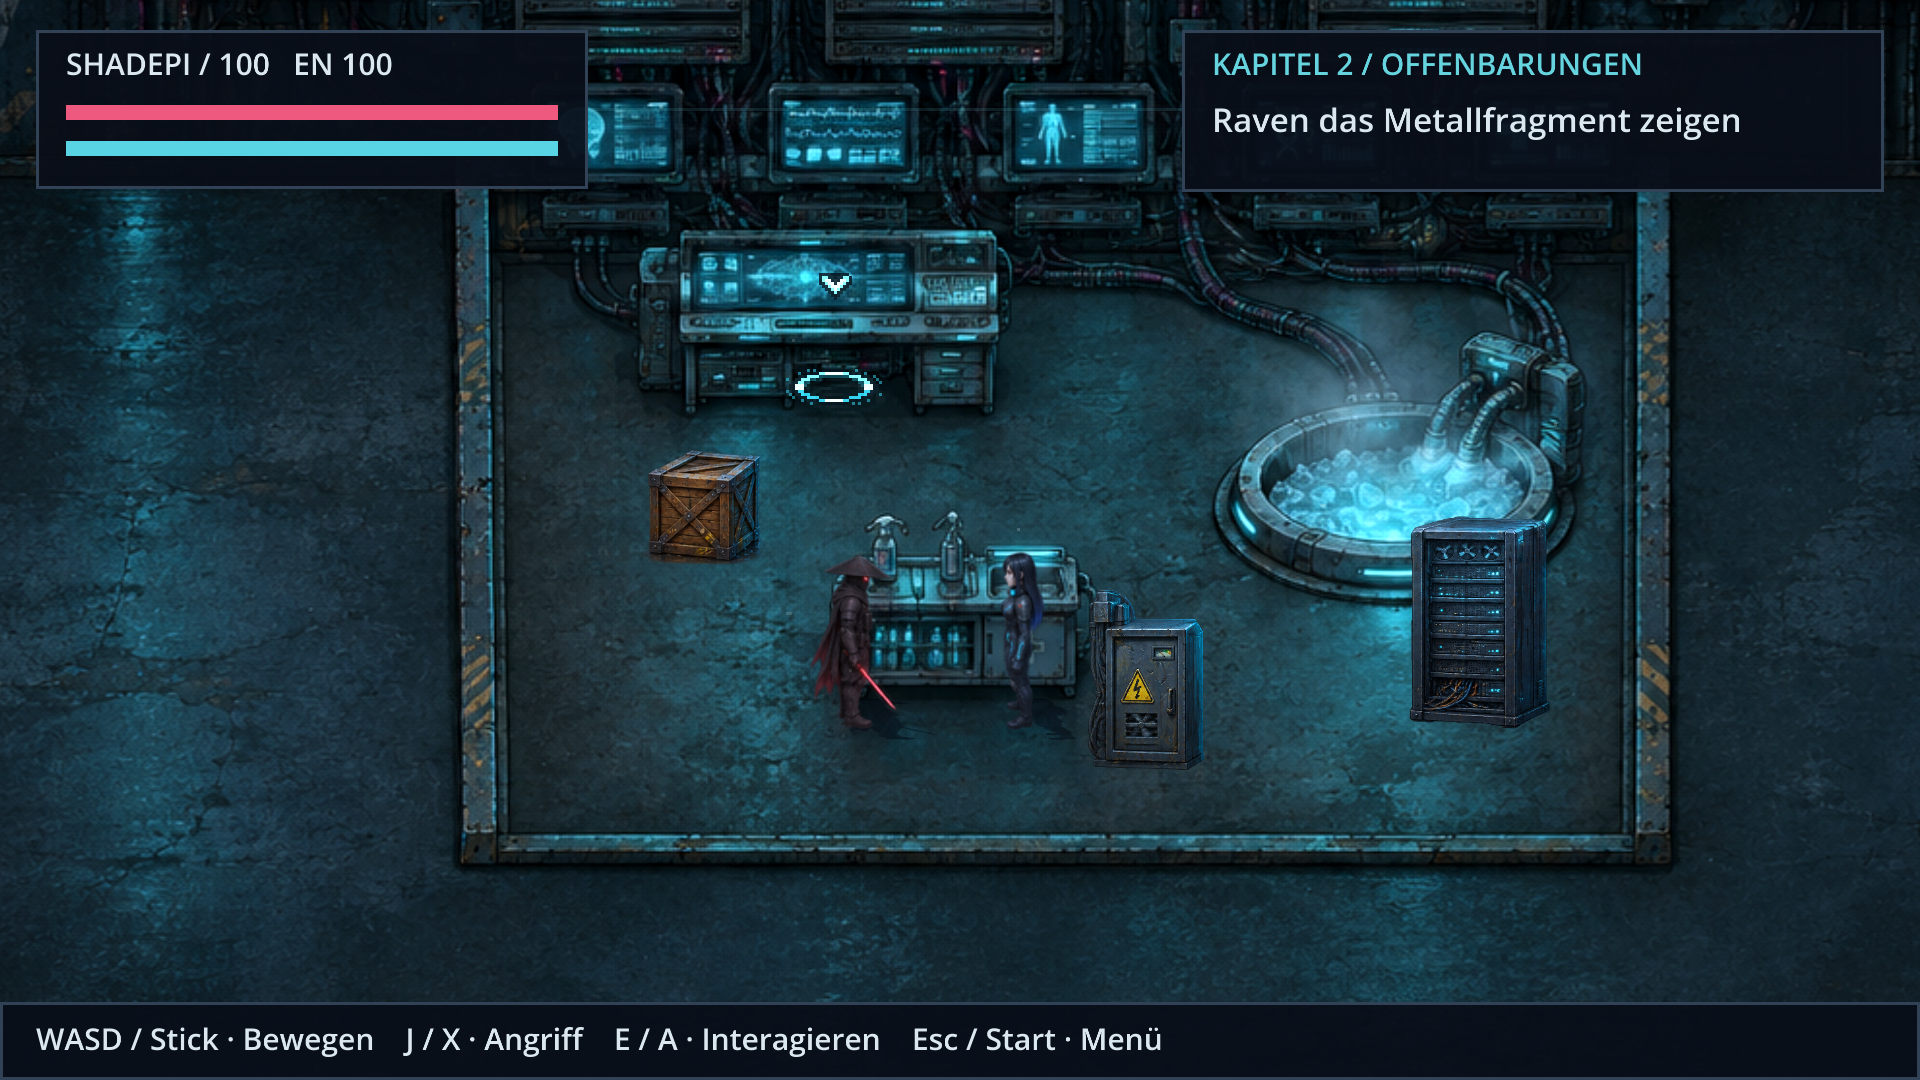
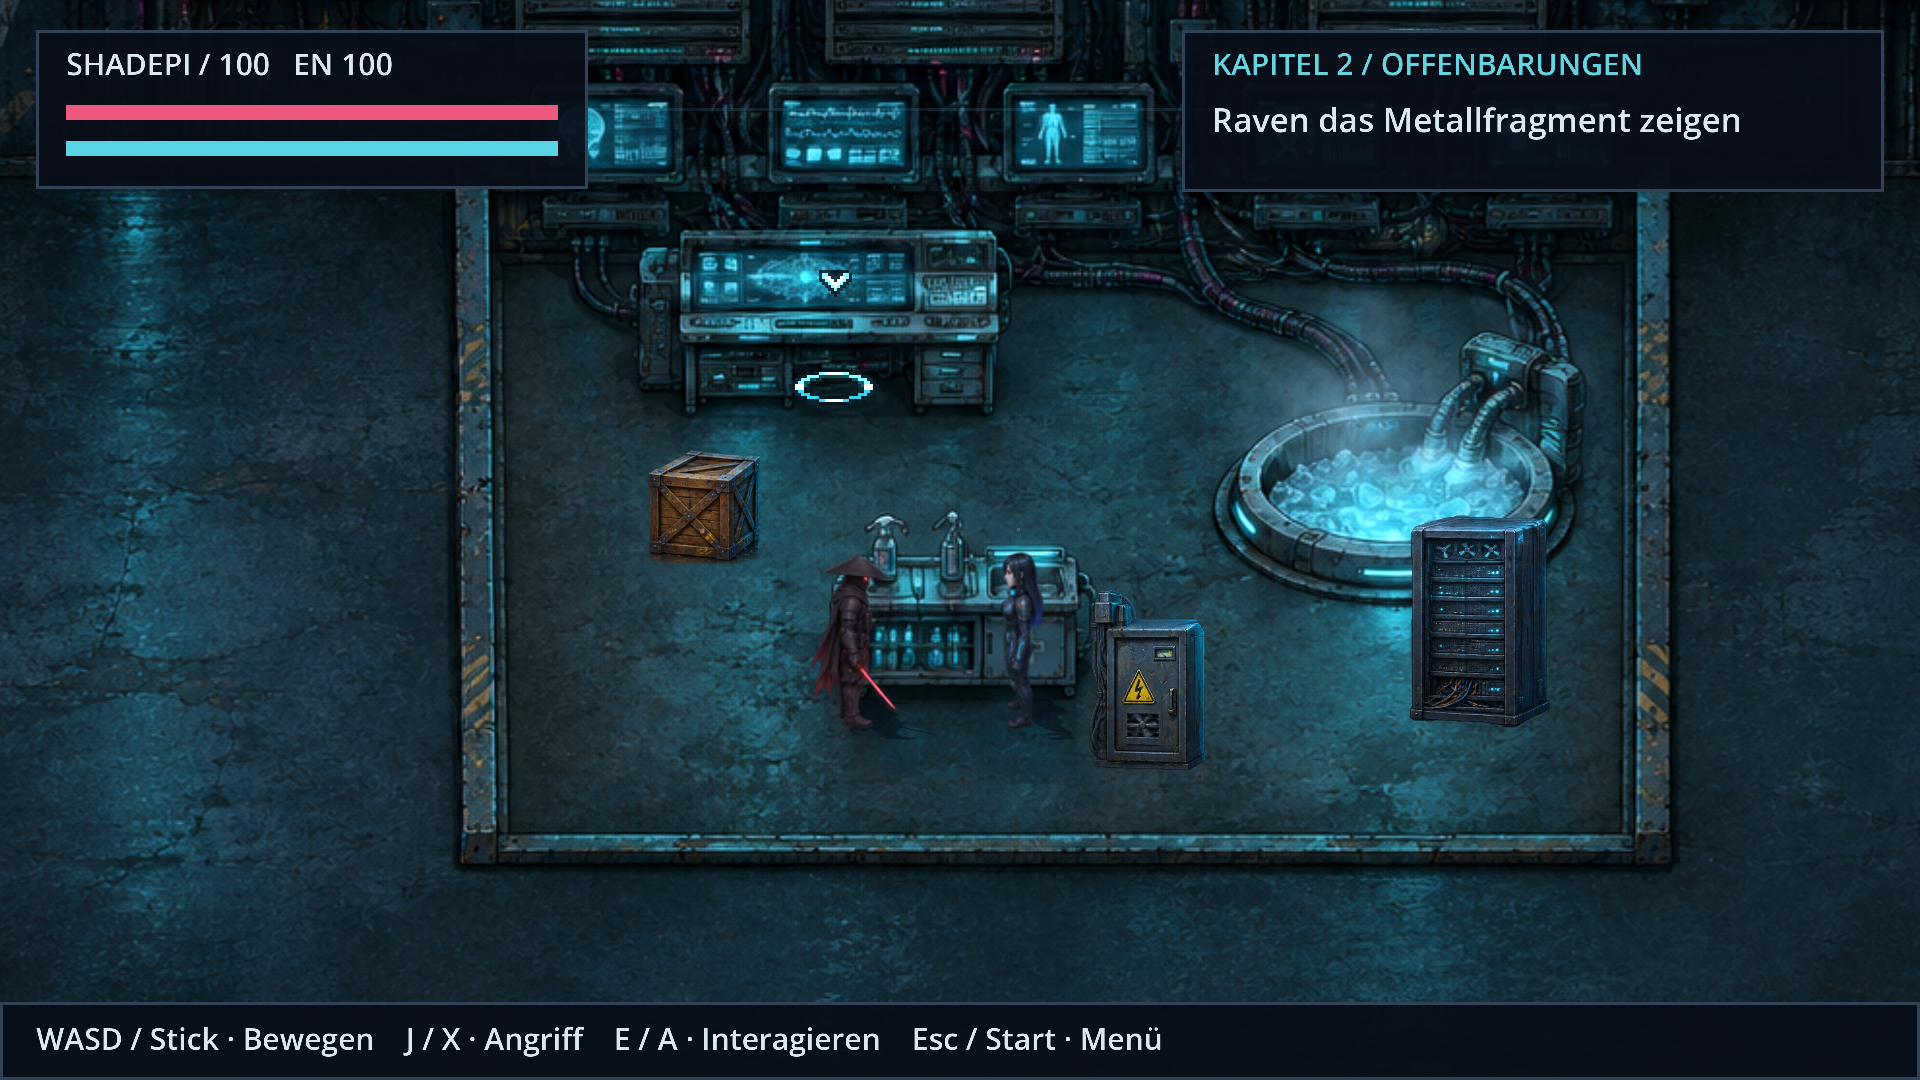
v0.51.0 CodexAI: Pixelraster erhalten und native 4K-/Exportprüfung abschließen

diff --git a/docs/arbeiten/hq-anzeige-v051.md b/docs/arbeiten/hq-anzeige-v051.md
@@ -5,7 +5,7 @@
 ## Auftrag und Ausgangslage
 
 - **Nutzerziel:** 1920×1080 nativ ermöglichen, einen HQ-Anzeigemodus einbauen und Ausgaben oberhalb Full HD nur vergrößern. Bilder bei Bedarf skalieren.
-- **Ausgang:** `93ede9c`, v0.50.2, Arbeitsbaum sauber. Alle Remote-Branches abgerufen und verglichen; main aktuell, keine neueren Entwicklungsstände. Fremde Spiel-/Tower-/See-/ICE-Änderungen erhalten.
+- **Ausgang:** `93ede9c`, v0.50.2, Arbeitsbaum sauber. Alle Remote-Branches abgerufen und verglichen; main aktuell, keine neueren Entwicklungsstände. Fremde Spiel-/Tower-/See-/ICE-Änderungen erhalten. Vor Sicherung erneut alle Branches abgerufen: `origin/main` unverändert `93ede9c`.
 - **Umfang:** wählbarer, gespeicherter HQ-Modus mit Full-HD-Grenze und klassischer Rückfalloption; keine neuen Grafikquellen und keine PNG-Vergrößerung nötig. Version v0.51.0 · CodexAI.
 
 ## Referenzen und unveränderte Merkmale
@@ -25,6 +25,7 @@ Raven bleibt 160 cm, Shadepis Gesicht/Maske unverändert. Alle Originalhelden, S
 - `hq_renderer.gd` teilt nur die Render-Canvases mit einem SubViewport: physische Bildgröße höchstens 1920×1080, logische Größe 640×360. Sichtbare CanvasLayers behalten Reihenfolge und Transform; bei Verbergen/Entfernen werden die RIDs gelöst.
 - Root zeichnet im HQ-Modus nur den Präsentationspass. Reserviertes Sichtbarkeitsbit trennt ihn vom Quellbild, sodass keine rekursive Bildschirmtextur entsteht. Material ist unbeleuchtet; kein zweites Abdunkeln des fertigen Spielbilds.
 - Größere Ausgaben vergrößern das fertige Full-HD-Bild mit Nearest. Im klassischen Modus werden Zielbild und geteilte Canvases freigegeben und die bisherige Sichtbarkeitsmaske wiederhergestellt.
+- Root-Texturfilter, Wiederholung, Pixel-Snapping und 2D-HDR-Zustand werden ausdrücklich auf das Spielbild übertragen; SubViewport-Standardwerte würden sonst Linearfilter und deaktiviertes Pixel-Snapping einführen.
 - Bloom-Schrittweite multipliziert die tatsächliche Renderdichte. Individuelle Spritefilter, Skalierungen und Anker bleiben erhalten; der physische Kontaktfleck verwendet die vorhandene radiale Textur.
 - HQ ist Standard bei neuen/älteren Einstellungen ohne HQ-Feld. Eine explizite gespeicherte klassische Auswahl bleibt erhalten. Fehlerhafte Präferenztypen werden abgefangen.
 
@@ -32,12 +33,28 @@ Raven bleibt 160 cm, Shadepis Gesicht/Maske unverändert. Alle Originalhelden, S
 
 | Prüffeld | Ergebnis |
 | --- | --- |
-| Native Bildprüfung | Full-HD-Originalhelden, weicher Kontakt, Haupt-/Pausenoptionen, ICE-Gitter und Gehbilder gesichtet. 48 Filmframes, 130.612 Bytes. |
+| Native Bildprüfung | Full-HD-Originalhelden, weicher Kontakt, Haupt-/Pausenoptionen, ICE-Gitter und Gehbilder gesichtet. 48 Filmframes, 132.886 Bytes. |
 | 4K-Grenze | Physischer 3840×2160-Desktop; Fensteraufnahme in 3840×2160 und Spielbild in 1920×1080. Vollständiger RGB-Vergleich der auf jedem zweiten Ausgabepixel abgetasteten 4K-Aufnahme gegen das Quellbild identisch (mittlerer/maximaler Fehler 0). |
 | Maus / Controller | Umschalten im laufenden Menü, B-Schließreihenfolge, A-Auswahl, Weltpositionen und Fokus unverändert; echte native und Headless-Eingabeprüfungen. |
 | Laufzeit / Kino | Guardian/Netz bleiben beim Moduswechsel, neue/unsichtbare Kinoebenen und entfernte Kapitel-Canvases korrekt; bestehende Szenenrouten bleiben unangetastet. |
-| Relevante Regressionen | Abschlusszählung wird nach dem finalen Lauf ergänzt. |
-| Export | Finaler Paketnachweis folgt vor Sicherung. |
-| Version / Sicherung | v0.51.0 · CodexAI in Projekt-/Exportfeldern und Versionsinfos; Git-Sicherung nach Prüfung. |
+| Relevante Regressionen | 2.255 Headless-Checks ohne Fehler: HQ 66, Anzeige 74, Core 382, Terminalcontroller 186, Terminalrätsel 67, Kino 50, Raven/Gegner 292, Atmosphäre 134, See 40, Story 206, Netzavatar 52, ICE 41, Kontrollpunkte 205, Menünavigation 13, See/Menü 253, Kampfaktionen 68, Eisbad 49, Fehlerbericht 21, Umgebungston 56. Zusätzlich 73 native HQ-Checks einschließlich tatsächlicher Mauspositionierung und 4K-Pixelvergleich ohne Fehler. |
+| Export | Linux-PCK `/tmp/shadepi-v0.51.0.pck` nativ mit 23 zusätzlichen Checks ohne Fehler gestartet: Ressourcen, Default-HQ, tatsächliches Full-HD-Target auf 4K, Root-Präsentation, Bloom, Originalhelden, GUI, Kino/Abbruch, klassischer Rückfall und kleinere HQ-Ausgabe. Entwicklungsdateien ausgeschlossen. |
+| Version / Sicherung | v0.51.0 · CodexAI in Projekt-/Exportfeldern und Versionsinfos; Implementierung in `ec8a5ad` zwischengesichert; abschließender Prüf-/Exportnachweis wird als eigener Commit auf main gesichert. |
 
 **Sichtprüfung:** CodexAI, 10. November 2026, Godot 4.7.2, eigenes X11-Dummy-Display mit 3840×2160/30 Hz, Mesa llvmpipe. Keine native Windows-Hardwareprüfung oder FPS-Zusage behauptet. Die gemeinsame Godot-Viewport-/Eingabe-API bleibt erhalten; Windows-Versionsfelder werden mitgeführt.
+
+
+## Reproduktion
+
+```sh
+XDG_DATA_HOME=/tmp/shadepi-hq-tests godot --headless --script res://tests/hq_display.gd
+# Auf eigenem nativen Desktop mit 3840×2160:
+XDG_DATA_HOME=/tmp/shadepi-hq-native godot --audio-driver Dummy --script res://tests/hq_display.gd
+XDG_DATA_HOME=/tmp/shadepi-hq-gallery godot --audio-driver Dummy --script res://tools/hq_display_gallery.gd
+python3 tools/audit_repository.py
+godot --headless --export-pack Linux /tmp/shadepi-v0.51.0.pck
+```
+
+Der Paketprüfer liegt außerhalb des Repositorys unter `/tmp/shadepi51-pack.gd`; seine 23 Prüfungen sind zusätzlich gezählt. Physische Fotos stammen aus dem eigenen 4K-Desktop (`xrandr`: 3840×2160/30 Hz); eine anfänglich abgeschnittene Aufnahme auf einem zu kleinen Dummy-Modus wurde verworfen und durch maßgeprüfte vollständige Bilder ersetzt. Der finale Renderer und die Bildaufnahmen übernehmen Pixel-Snapping und Filter ausdrücklich vom Projekt.
+
+**Ergebnis:** Auftrag umgesetzt und sicht-/exportgeprüft. Kein Cloud-Publish oder Release-Tag angelegt; PNG-Originale und verworfene Heldenarchive nicht verändert. Gesamter manueller Story-Durchlauf und native Windows-Hardwaremessung wurden nicht behauptet.

diff --git a/docs/bildschirm.md b/docs/bildschirm.md
@@ -29,7 +29,7 @@ Bisher erzwang das Projekt ganzzahlige Skalierung: Ein 1920×1000-Fenster zeigte
 
 ## Umsetzung und Prüfung
 
-- [`display_settings.gd`](../scripts/display_settings.gd) ist ein Autoload für alle Kapitel. Es setzt explizit 640×360, konstantes 16:9 und die gewählte Skalierung. Klassisch: Hauptmenü `CANVAS_ITEMS`, Gameplay/Pause `VIEWPORT`. HQ: begrenztes Spielbild mit Root-Präsentation; alle Szenen/Eingaben bleiben am ursprünglichen Viewport. Analyse-/Galeriewerkzeuge mit eigenem SceneTree behalten ihre Fenstersteuerung.
+- [`display_settings.gd`](../scripts/display_settings.gd) ist ein Autoload für alle Kapitel. Es setzt explizit die logische Größe 640×360, konstantes 16:9 und die gewählte Skalierung. Klassisch: Hauptmenü `CANVAS_ITEMS`, Gameplay/Pause `VIEWPORT`. HQ: begrenztes Spielbild mit Root-Präsentation; alle Szenen/Eingaben bleiben am ursprünglichen Viewport. Analyse-/Galeriewerkzeuge mit eigenem SceneTree behalten ihre Fenstersteuerung.
 - [`display_panel.gd`](../scripts/display_panel.gd) verwendet die vorhandenen Pixelrahmen, Fonts und Kapitelthemen. Der Ton-/Anzeige-Bereich berücksichtigt die zusätzlichen Kapitelknöpfe. Keine neuen Figuren-, Welt- oder Effektgrafiken.
 - [`tests/display_settings.gd`](../tests/display_settings.gd) prüft Einstellungen, fehlerhafte Dateien, Monitoranpassung, Pixelstufen, tatsächliche Fenstertransformationen einschließlich 1080p/1440p/4K/Ultrawide/4:3, rohe Tastatur-/Controller-/Mausereignisse, modale Listen, Fokus und Szenenwechsel. Bestandteil des GitHub-Builds.
 - [`tools/display_gallery.gd`](../tools/display_gallery.gd) prüft beide Vollbildmodi auf einem echten Desktop und fotografiert die tatsächlichen Clientfenster. Auf X11 ohne Godot-Screen-Capture benötigt es ImageMagick `import`. Aufnahmen liegen unter `/tmp/shadepi-display/`; es werden keine kleinen Gameplay-Screenshots nachträglich vergrößert.

diff --git a/docs/stilbibel/artdirection.md b/docs/stilbibel/artdirection.md
@@ -39,7 +39,7 @@ Das sind Rollen der vorhandenen Bildfarben, keine neu behauptete exakte Original
 
 ![Figuren und Gegenstände im gleichen Weltmaßstab](bilder/requisiten-2.png)
 
-Das Gameplay nutzt 640×360 als Basis; das Menü rendert eine eigene größere Komposition. **v0.46.1 · CodexAI:** Auf ausdrücklichen Nutzerwunsch verwenden Raven und Shadepi wieder die unveränderten Originale unter `assets/sprites/heroes/`: 1024×5120, 128×160-Zellen, Maßstab 0,5, acht Gehphasen je Richtung. Sichtbare frontale Höhe ungefähr 57–59 Weltpixel. Die v0.45.0-Gameplay-Variante ist verworfen; nicht erneut automatisch aktivieren. [Aktuelle Spielansicht](../original-helden.md). Raven ist verbindlich **160 cm** groß; daraus folgt kein allgemeiner Pixel-pro-Zentimeter-Faktor.
+Die logische Gameplay-Basis bleibt 640×360; seit v0.51.0 · CodexAI zeichnet der [HQ-Modus](../hq-anzeige-v051.md) Spiel und Menüs bis Full HD, größere Ausgaben vergrößern dieses Bild. Der klassische Modus bleibt verfügbar. **v0.46.1 · CodexAI:** Auf ausdrücklichen Nutzerwunsch verwenden Raven und Shadepi wieder die unveränderten Originale unter `assets/sprites/heroes/`: 1024×5120, 128×160-Zellen, Maßstab 0,5, acht Gehphasen je Richtung. Sichtbare frontale Höhe ungefähr 57–59 Weltpixel. Die v0.45.0-Gameplay-Variante ist verworfen; nicht erneut automatisch aktivieren. [Aktuelle Spielansicht](../original-helden.md). Raven ist verbindlich **160 cm** groß; daraus folgt kein allgemeiner Pixel-pro-Zentimeter-Faktor.
 
 Andere Figuren und Objekte haben eigene Maßstäbe. Krieger, Zivilpersonen und Minotaurus verwenden ihre JSON-Anker; Requisiten verwenden `PropArt.SIZES`. Sitzen und Liegen werden nach Körperlänge und Kontaktflächen kalibriert. Höhe eines Kastens, Länge eines Autos und Größe einer Person mit derselben Weltkamera vergleichen. Transparenter Zellrand ist kein Körpermaß.
 

diff --git a/CHANGELOG.md b/CHANGELOG.md
@@ -6,6 +6,7 @@
 - Vorhandene Welt-/UI-Canvases werden einmal in ein auf 1920×1080 begrenztes Spielbild gezeichnet. Größere Ausgaben skalieren dieses fertige Bild; 4K-Pixelvergleich bestätigt die zweifache Vergrößerung. Unterhalb Full HD passt sich das HQ-Spielbild an die Ausgabe an.
 - Logische 640×360-Komposition, Szenen, Kameras, GUI-Fokus, Maus-/Controller-Eingabe und Originalhelden bleiben erhalten. Kein zweiter Spiellauf, kein neuer Heldenatlas und keine künstlich vergrößerten Quelldateien.
 - Bloom behält über Auflösungsskalierung seinen Radius in der Welt. Weicher texturbasierter Fußkontakt ersetzt harte rechteckige Schattenanteile. Menü, Terminals, Kino und Kapitelwechsel behalten ihre Ebenen und Modalität.
+- 2.255 Headless-Checks, 73 native Anzeige-/Maus-/4K-Prüfungen und 23 zusätzliche Paketprüfungen ohne Fehler; Bildbelege und HQ-Film unter 5 MB.
 - [Bilder, Steuerung und Messungen](docs/hq-anzeige-v051.md) · [Arbeits-/Exportnachweis](docs/arbeiten/hq-anzeige-v051.md).
 
 ## v0.50.2 – CodexAI: Anzeigequalität analysiert und native Full-HD-Vergleiche dokumentiert · 10. November 2026

diff --git a/Spiel-README.md b/Spiel-README.md
@@ -28,7 +28,7 @@ Bei Full HD wird das Spielbild in 1920×1080 gezeichnet. 1440p und 4K vergröße
 
 Windows-/Linux-ZIP aus dem neuesten Release vollständig entpacken und das Spiel starten. Zwischenstände findest du unter [Actions](https://github.com/Inrouder/ShadepiRPG/actions/workflows/build.yml). Godot ist nur zum Entwickeln nötig. Im Hauptmenü Einzelspieler oder Lokal-Koop wählen. „Letzten Kontrollpunkt laden“ setzt den neuesten gültigen Stand des Modus fort. Solo und Koop sowie normale und Test-Spielstände sind getrennt. „Zurück zum Desktop“ beendet das Spiel.
 
-Bildschirmmodus und Auflösung lassen sich einstellen: [Vollbild/Fenstervollbild und 16:9](docs/bildschirm.md). Die Grafikbasis bleibt 640×360; höhere Ausgabeauflösungen erzeugen keine neuen Quellpixel.
+Bildschirmmodus und Auflösung lassen sich einstellen: [Vollbild/Fenstervollbild und 16:9](docs/bildschirm.md). Die logische Spielbasis bleibt 640×360; der HQ-Modus nutzt beim Zeichnen mehr vorhandene Quellpixel, bis zur Full-HD-Grenze.
 
 ## Lokal-Koop
 

diff --git a/docs/hq-anzeige-v051.md b/docs/hq-anzeige-v051.md
@@ -57,4 +57,6 @@ Der 4K-Nachweis stammt von einem tatsächlich auf **3840×2160** eingestellten X
 
 [Anzeigeverwaltung](../scripts/display_settings.gd), [HQ-Renderer](../scripts/hq_renderer.gd), [Optionenfenster](../scripts/display_panel.gd). Derselbe Weltcanvas und die sichtbaren UI-Canvases werden in ein in der Größe begrenztes Spielbild gezeichnet. Ein unbeleuchteter Präsentationspass zeigt dieses Bild auf der Ausgabe; er wird niemals in sein eigenes Quellbild aufgenommen. Die Gameplay-Nodes behalten ihren ursprünglichen Viewport für Kameras, Physik und GUI.
 
+2.255 Headless-Prüfungen, 73 native HQ-Prüfungen und 23 zusätzliche Exportprüfungen bestanden.
+
 Die Original-PNGs, ihre Atlasmaße und individuellen Filter bleiben erhalten. Die weicheren Stellen innerhalb einer Quelldatei werden dadurch nicht neu gezeichnet. [Ursprüngliche Analyse](anzeigequalitaet-v0502.md) und [aktueller Arbeits-/Prüfnachweis](arbeiten/hq-anzeige-v051.md).
